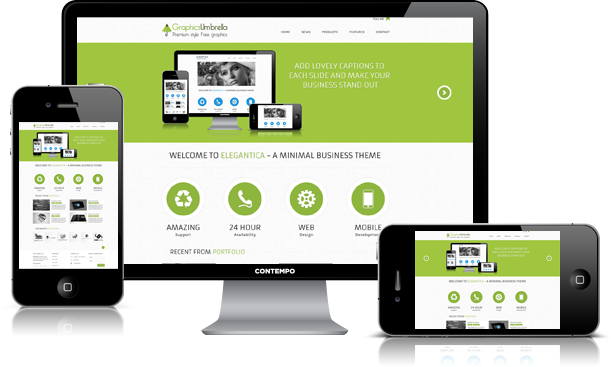
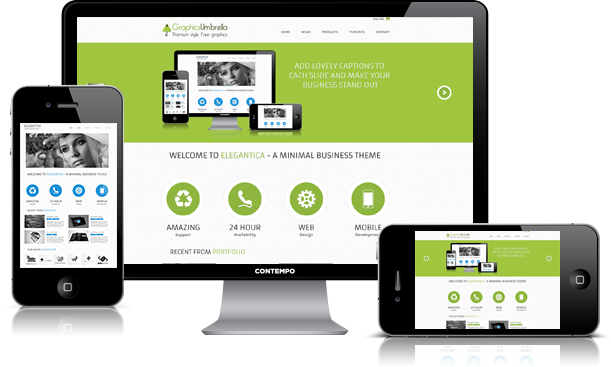
Finished project

Changed region(s): [[0.0311, 0.3297, 0.2177, 0.7493]]

diff --git a/css/style.css b/css/style.css
@@ -163,11 +163,69 @@ header nav {
 	float: right;
 }
 
-.rotator{
+.rotator {
 	background: #9fc63f;
 	clear: both;
 	height: 415px;
 	position: relative;
+}
+
+.rotator .prev {
+	background-image: url(../img/backward.png);
+	display: block;
+	height: 60px;
+	left: 50px;
+	margin-top: -30px;
+	position: absolute;
+	top: 50%;
+	width: 60px;
+}
+
+.rotator .next {
+	background-image: url(../img/forward.png);
+	display: block;
+	height: 60px;
+	right: 50px;
+	margin-top: -30px;
+	position: absolute;
+	top: 50%;
+	width: 60px;
+}
+
+.rotator .rotator-wrapper {
+	height: 420px;
+	margin: 0 auto;
+	width: 960px;
+	overflow: hidden;
+	position: relative;
+}
+
+.rotator ul {
+	position: absolute;
+	top: 0;
+	width: 2000em;
+}
+
+.rotator li {
+	float: left;
+	height: 420px;
+	width: 960px;
+	position: relative;
+}
+
+.slide0, .slide1, .slide2 {
+	background: url(../img/slide.png) left center no-repeat;
+}
+
+.slide0 div, .slide1 div, slide2 div {
+	color: #fff;
+	font-size: 25px;
+	line-height: 1.5;
+	position: absolute;
+	right: 0;
+	text-align: center;
+	top: 75px;
+	width: 400px;
 }
 
 .content h2 {
@@ -245,4 +303,85 @@ header nav {
 .services h5 {
     font-size: 14px;
     text-align: center;
+}
+
+.services h3 {
+	font-size: 24px;
+	text-align: center;
+	margin-bottom: 10px;
+}
+
+.services h5 {
+	font-size: 14px;
+	text-align: center;
+}
+
+.sub-header {
+	background: url(../img/dashed.png) center repeat-x;
+	clear: both;
+	height: 20px;
+	margin-bottom: 35px;
+}
+
+.sub-header h4 {
+	background: #f5f5f5;
+	font-size: 20px;
+	height: 20px;
+	width: 275px;
+	padding-top: 4px;
+	margin-left: 35px;
+}
+
+.portfolio-item {
+	border: 1px solid #ebebeb;
+	float: left;
+	width: 465px;
+	margin-bottom: 25px;
+	margin-right: 26px;
+}
+
+.portfolio-item:nth-child(2n+1) {
+	margin-right: 0;
+}
+
+.portfolio-item img {
+	float: left;
+	height: 148px;
+	width: 227px;
+	margin-right: 20px;
+}
+
+.portfolio-item h5 {
+	font-size: 12px;
+	margin: 15px 0 10px 0;
+}
+
+.portfolio-item a {
+	background: #9fc63f;
+	color: #fff;
+	text-decoration: none;
+	padding: 3px 10px;
+	display: inline-block;
+    margin-right: 6px;
+    margin-bottom: 14px;
+}
+
+.portfolio-item p {
+	margin-top: 15px;
+}
+
+.advertisers {
+	clear: both;
+}
+
+.advertisers li {
+	float: left;
+	height: 131px;
+	width: 160px;
+}
+
+.advertisers img {
+	display: block;
+	height: 131px;
+	width: 160px;
 }

diff --git a/index.html b/index.html
@@ -23,7 +23,32 @@
 		</header>
 
 		<!--       Start Rotator       -->
-		<div id="Rotator" class="rotator"></div>
+		<div id="Rotator" class="rotator">
+			<a class="prev" href="#"></a>
+			<div class="rotator-wrapper">
+				<ul>
+					<li class="slide0">
+						<div>
+							Slide 1
+							ADD LONELY CAPTIONS TO BACK SLIDE AND MAKE YOUR BUSINESS STAND OUT
+						</div>
+					</li>
+					<li class="slide1">
+						<div>
+							Slide 2
+							ADD LONELY CAPTIONS TO BACK SLIDE AND MAKE YOUR BUSINESS STAND OUT
+						</div>
+					</li>
+					<li class="slide2">
+						<div>
+							Slide 3
+							ADD LONELY CAPTIONS TO BACK SLIDE AND MAKE YOUR BUSINESS STAND OUT
+						</div>
+					</li>
+				</ul>
+			</div>
+			<a class="next" href="#"></a>
+		</div>
 		
 		<div class="content">
 			<h2>WELCOME TO <span>ELEGANTICA</span> - A MINIMAL THEME</h2>
@@ -74,7 +99,7 @@
 				<h4>Recent from <span>Portfolio</span></h4>
 			</div>
 			<div class="portfolio-item">
-				<img src="#" alt="portfolio-item" />
+				<img src="img/img1.jpg">
 				<h5>Business Cards</h5>
 				<a href="#">Video</a>
 				<a href="#">Interview</a>
@@ -86,9 +111,9 @@
 				</p>
 			</div>
 			<div class="portfolio-item">
-				<img src="#" alt="portfolio-item" />
+				<img src="img/img2.jpg">
 				<h5>Moo Minicards</h5>
-				<a href="#">Business Cards</a>
+				<a href="#">Video</a>
 				<a href="#">Interview</a>
 				<p>
 					Lorem ipsum dolor sit amet, consectetur adipisicing elit, sed do eiusmod
@@ -98,7 +123,7 @@
 				</p>
 			</div>
 			<div class="portfolio-item">
-				<img src="#" alt="portfolio-item" />
+				<img src="img/img3.jpg">
 				<h5>Say It In Print</h5>
 				<a href="#">Video</a>
 				<a href="#">Interview</a>
@@ -110,7 +135,7 @@
 				</p>
 			</div>
 			<div class="portfolio-item">
-				<img src="#" alt="portfolio-item"/>
+				<img src="img/img4.jpg">
 				<h5>Graphics In Print</h5>
 				<a href="#">Video</a>
 				<a href="#">Interview</a>
@@ -192,5 +217,14 @@
 				</div>
 			</div>
 		</footer>
+
+		<script   src="https://code.jquery.com/jquery-3.1.0.min.js"   integrity="sha256-cCueBR6CsyA4/9szpPfrX3s49M9vUU5BgtiJj06wt/s="   crossorigin="anonymous"></script>
+
+		<script src="js/jquery.rotator.js"></script>
+		<script>
+			$(function () {
+				$('#Rotator').Rotator();
+			});
+		</script>
 	</body>
 </html>

diff --git a/js/jquery.rotator.js b/js/jquery.rotator.js
@@ -1,0 +1,79 @@
+; (function ($) {
+
+    $.fn.Rotator = function (options) {
+        var defaults = {
+            container: '.rotator-wrapper',
+            animationduration: 1000,
+            slideWidth: 960
+        };
+
+        options = $.extend(defaults, options);
+        elm = this;
+        var pageIndex = 0,
+			slideCount = 0;
+
+
+
+        var _init = function () {
+            slideCount = elm.find(options.container).children().children().length;
+            elm.find(options.container).children().width(slideCount * options.slideWidth);
+            _bindEvents();
+            _togglePager();
+        };
+
+
+        var _bindEvents = function () {
+            var jElm = $(elm);
+            jElm.find('.prev').on('click', _previous);
+            jElm.find('.next').on('click', _next);
+        };
+
+        var _next = function (e) {
+            e.preventDefault();
+
+            if (pageIndex >= 0 && pageIndex < slideCount - 1) {
+                pageIndex++;
+
+                elm.find(options.container).children().animate({
+                    left: "-=" + options.slideWidth
+                }, options.animationduration);
+            }
+
+            _togglePager();
+        };
+
+        var _previous = function (e) {
+            e.preventDefault();
+
+            if (pageIndex <= slideCount) {
+                pageIndex--;
+                elm.find(options.container).children().animate({
+                    left: "+=" + options.slideWidth
+                }, options.animationduration);
+            }
+            _togglePager();
+        };
+
+        var _togglePager = function () {
+            var $elm = $(elm);
+            var prev = $elm.find('.prev');
+            var next = $elm.find('.next');
+
+            console.log('slide count' + pageIndex + ' Page Index' + pageIndex)
+
+            if (pageIndex >= slideCount - 1) {
+                next.hide();
+            } else {
+                next.show();
+            }
+
+            if (pageIndex <= 0) {
+                prev.hide();
+            } else {
+                prev.show();
+            }
+        }
+
+        return _init(elm);
+    }
+})(jQuery);
